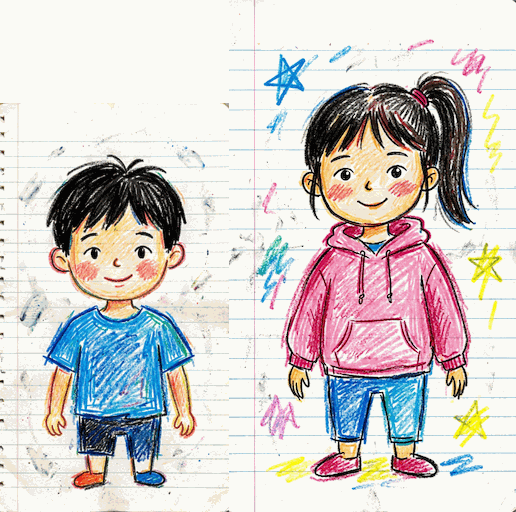
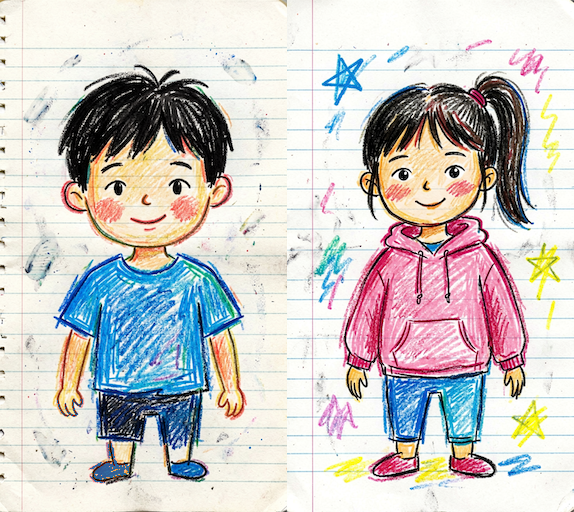
fix(daily): lock character wardrobe and default left-right layout
Stabilize daily_story T2I consistency with full outfit descriptions, matched shoe reference art, and fixed staging plus prop anchors.

diff --git a/backend/app/services/script/visual_brief.py b/backend/app/services/script/visual_brief.py
@@ -62,11 +62,12 @@ _DAILY_VISUAL_BRIEF_CONTENT_RULE = (
     "【站位】两人及以上同框时必须写清「画面左边是A，右边是B」，"
     "再按左→右分别写各自动作表情；禁止只写动作不写左右"
     "（否则出图常把指责方画到左边另一个人身上）。"
+    "【默认站位】昭昭与灿灿同框时默认「画面左边是昭昭，右边是灿灿」，"
+    "全片尽量保持，禁止因质问/辩解角色对调而左右对调；"
+    "仅妈妈入画或单人镜可例外。"
     "【单帧定格】每角色仅写一组动作表情（一个姿势）；"
     "本镜有多句对白时，只取冲突最强的一瞬，禁止同一角色写两段动作"
     "（如先写昭昭比划再吃冰棍、又写昭昭双手叉腰）。"
-    "站位须与人物关系一致：质问/进攻方在左、辩解/防御方在右"
-    "（或按对白先后：先发言者在左）；左右与动作禁止对调。"
     "【人物】只写动作姿态与面部表情"
     "（瞪圆眼、撇嘴、叉腰、身体前倾、摊手耸肩等），强度对标本段台词语气；"
     "禁止面无表情站桩；禁止写发型/服装/鞋帽（外貌由系统硬编码注入）。"
@@ -76,6 +77,9 @@ _DAILY_VISUAL_BRIEF_CONTENT_RULE = (
     "禁止写成粉色卫衣/蓝色T恤/牛仔裤等具体款式"
     "（蓝T恤是昭昭身上穿的，粉卫衣是灿灿身上穿的，不能当道具）；"
     "禁止输出「冲突道具：」「地点：」「人物：」等冒号小标题。"
+    "【陈设锚点】全片重复出现的背景陈设（如茶几上的遥控器与水杯）"
+    "镜间保持一致，禁止无故换成杂志/书堆等新物件；"
+    "冲突道具可随剧情演变（撕开、掉地、踢走），背景陈设不要换。"
     "【服装色禁令】粉色卫衣=灿灿身上穿的、蓝色T恤=昭昭身上穿的、米色上衣=妈妈身上穿的，"
     "三者禁止出现在道具/衣堆描述里（否则出图会把角色衣服画成道具或换装）；"
     "台词未点名款式时只用「衣服/衣物堆/皱成一团的衣服」泛称。"
@@ -93,10 +97,10 @@ _DAILY_VISUAL_BRIEF_CONTENT_RULE = (
     "禁止心理旁白引号（如「不关我事」），只写可见表情动作。"
     "正例（对白：灿灿抱怨刚叠好的衣服皱成一团；昭昭说只碰一下没弄皱）："
     "'客厅沙发上，原本叠好的衣服已被揉皱成一团；"
-    "画面左边是灿灿，右边是昭昭；"
-    "灿灿右手食指指向身前那团皱衣服，左手叉腰，瞪圆眼睛嘴巴大张；"
-    "昭昭双手摊开耸肩，撇着嘴角一脸无辜。"
-    "茶几上放着空水杯，沙发扶手搭着叠衣板。'"
+    "画面左边是昭昭，右边是灿灿；"
+    "昭昭双手摊开耸肩，撇着嘴角一脸无辜；"
+    "灿灿右手食指指向身前那团皱衣服，左手叉腰，瞪圆眼睛嘴巴大张。"
+    "茶几上放着遥控器和空水杯。'"
 )
 
 _EMOTION_RULE_DIALOGUE = (

diff --git a/backend/app/services/script/image_prompt.py b/backend/app/services/script/image_prompt.py
@@ -26,13 +26,14 @@ _DAILY_T2I_STYLE = (
 )
 
 _DAILY_CHAR_ZHAO = (
-    "昭昭：7岁男孩，黑色超短发露耳露后颈，圆脸，蓝色短袖T恤。"
+    "昭昭：7岁男孩，黑色超短发露耳露后颈，圆脸，"
+    "蓝色短袖T恤，深蓝色短裤，两侧同色蓝白运动鞋（禁止左右异色鞋）。"
 )
 _DAILY_CHAR_CANCAN = (
-    "灿灿：10岁女孩，单侧高马尾，粉色卫衣。"
+    "灿灿：10岁女孩，单侧高马尾，粉色卫衣，蓝色长裤，两侧同色粉红运动鞋。"
 )
 _DAILY_CHAR_MOM = (
-    "妈妈：成年女性，黑色长发，米色上衣，牛仔裤。"
+    "妈妈：成年女性，黑色长发，米色上衣，蓝色牛仔裤，深色平底鞋。"
 )
 _DAILY_CHAR_HEIGHT = "昭昭比灿灿矮约半个头。"
 
@@ -60,22 +61,17 @@ _DAILY_LR_RE = re.compile(
 
 
 def _daily_layout_speakers(seg: dict, vb: str) -> list[str]:
-    """左右站位：优先 visual_brief 明示，否则对白出现顺序，最后固定角色序。"""
+    """左右站位：优先 visual_brief 明示；否则昭昭+灿灿默认左昭右灿。"""
     m = _DAILY_LR_RE.search(vb or "")
     if m:
         left, right = m.group(1), m.group(2)
         if left in _DAILY_CHAR_MAP and right in _DAILY_CHAR_MAP and left != right:
             return [left, right]
-    order: list[str] = []
-    for item in seg.get("dialogue") or []:
-        if not isinstance(item, dict):
-            continue
-        name = str(item.get("speaker") or "").strip()
-        if name in _DAILY_CHAR_MAP and name not in order:
-            order.append(name)
-    if len(order) >= 2:
-        return order
-    return _daily_speakers_of(seg)
+    speakers = _daily_speakers_of(seg)
+    if "昭昭" in speakers and "灿灿" in speakers:
+        rest = [s for s in speakers if s not in ("昭昭", "灿灿")]
+        return ["昭昭", "灿灿", *rest]
+    return speakers
 
 
 def _strip_style_suffix(vb: str) -> str:
@@ -109,9 +105,9 @@ def _daily_composition(
 ) -> str:
     names = [s for s in speakers if s in _DAILY_CHAR_MAP]
     look = {
-        "昭昭": "蓝T恤短发男孩昭昭",
-        "灿灿": "粉卫衣马尾女孩灿灿",
-        "妈妈": "米色上衣黑长发妈妈",
+        "昭昭": "蓝T恤深蓝短裤短发男孩昭昭",
+        "灿灿": "粉卫衣蓝裤马尾女孩灿灿",
+        "妈妈": "米色上衣牛仔裤黑长发妈妈",
     }
     has_lr = bool(_DAILY_LR_RE.search(vb or ""))
     if shot_type == "特写":

diff --git a/backend/tests/test_daily_t2i_i2v_pipeline.py b/backend/tests/test_daily_t2i_i2v_pipeline.py
@@ -37,11 +37,13 @@ def test_assemble_daily_t2i_prompt_structure():
     assert "昭昭比灿灿矮约半个头" in prompt
     assert "窗光从一侧斜照" in prompt
     assert "中近景特写" in prompt
-    # 对白先发言者在左（灿灿），勿固定昭昭在左
-    assert "粉卫衣马尾女孩灿灿" in prompt
-    assert "蓝T恤短发男孩昭昭" in prompt
+    # 昭昭+灿灿同框默认左昭昭右灿灿（不再按对白先发言者左右对调）
+    assert "蓝T恤深蓝短裤短发男孩昭昭" in prompt
+    assert "粉卫衣蓝裤马尾女孩灿灿" in prompt
     assert "禁止左右对调" in prompt
-    assert "画面左边是灿灿，右边是昭昭" in prompt
+    assert "画面左边是昭昭，右边是灿灿" in prompt
+    assert "深蓝色短裤" in prompt
+    assert "蓝色长裤" in prompt
     assert "占左半" in prompt and "占右半" in prompt
     assert "蜡笔" in prompt
 
@@ -73,8 +75,8 @@ def test_assemble_daily_layout_from_visual_brief():
         ],
     }
     prompt = assemble_daily_t2i_prompt(seg)
-    assert "蓝T恤短发男孩昭昭" in prompt
-    assert "粉卫衣马尾女孩灿灿" in prompt
+    assert "蓝T恤深蓝短裤短发男孩昭昭" in prompt
+    assert "粉卫衣蓝裤马尾女孩灿灿" in prompt
     assert "禁止左右对调" in prompt
     assert "画面左边是昭昭，右边是灿灿" in prompt
     assert prompt.count("画面左边是昭昭，右边是灿灿") == 1
@@ -111,7 +113,7 @@ def test_assemble_daily_t2i_no_duplicate_lr_in_prompt():
     prompt = assemble_daily_t2i_prompt(seg)
     assert prompt.count("画面左边是昭昭，右边是灿灿") == 1
     assert "昭昭双手叉腰，点头瞪眼" not in prompt
-    assert "中景，严格左蓝T恤短发男孩昭昭" in prompt
+    assert "中景，严格左蓝T恤深蓝短裤短发男孩昭昭" in prompt
 
 
 def test_build_image_prompts_daily_motion_modes_and_duration():

diff --git a/backend/app/services/daily_story/prompts.py b/backend/app/services/daily_story/prompts.py
@@ -31,13 +31,16 @@ DAILY_STORY_CHARACTERS = (
     "昭昭：7岁男孩，男孩气黑色超短发"
     "（发长须在耳垂以上、清晰露出双耳及整个后颈，齐耳学生头/圆寸感；"
     "禁止女童波波头、齐肩短发、厚刘海遮额、马尾），"
-    "圆脸，穿蓝色短袖T恤，比灿灿矮约半个头；"
+    "圆脸，穿蓝色短袖T恤、深蓝色短裤、两侧同色蓝白运动鞋"
+    "（禁止左右异色鞋），比灿灿矮约半个头；"
     "灿灿：10岁女孩，单侧高马尾（仅一根，禁止双马尾/麻花辫/披发），"
-    "穿粉色卫衣，比昭昭高约半个头"
+    "穿粉色卫衣、蓝色长裤、两侧同色粉红运动鞋，比昭昭高约半个头"
 )
 
 # 妈妈无参考图，外貌特征由 LLM 在 image_prompt 中文字描述，不混入有参考图角色常量
-DAILY_STORY_CHARACTER_MOM = "妈妈：成年女性，黑色长发，米色上衣牛仔裤"
+DAILY_STORY_CHARACTER_MOM = (
+    "妈妈：成年女性，黑色长发，米色上衣、蓝色牛仔裤、深色平底鞋"
+)
 
 # 片长：语速约 3.6 字/秒、目标约 1:30–2:00
 # 全文/正文硬卡不变；首稿提示词写作目标约 +100，抵消偏短（写长了靠校验/重试压回）
